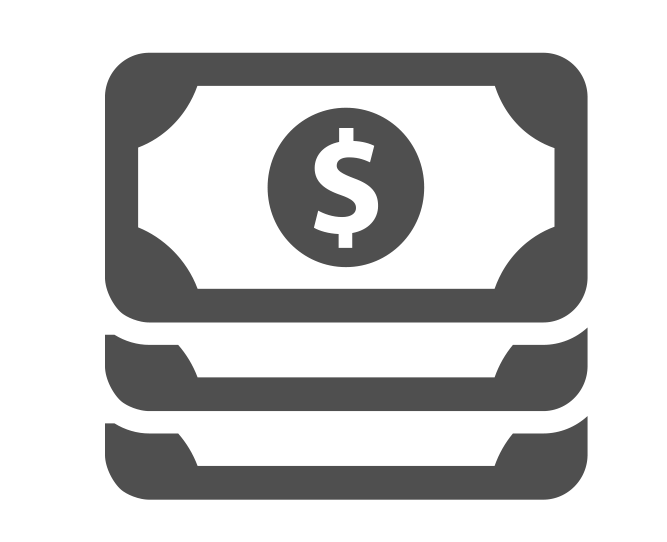
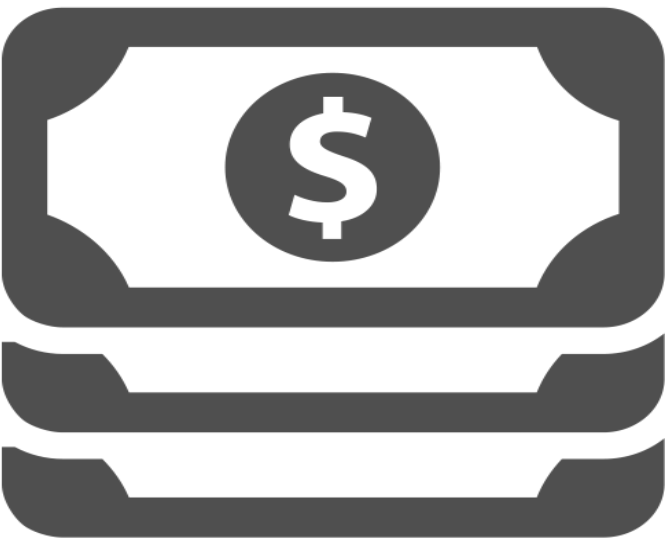
LUCAS- Detalhes na página de compra.php

diff --git a/smartphone/carrinho.php b/smartphone/carrinho.php
@@ -29,25 +29,37 @@ location.href="cardapio.php"
       </tr>
 
       <tr>
-        <td>1/2</td>
+    <td>
+     <input type="radio" name="tamanho" value="1">Inteira<br>
+     <input type="radio" name="tamanho" value="1/5">Meia
+     </td>
         <td><img src="smartphone/images/thumb-1.png" class="img-responsive" >Broto mussarela</td>
         <td>R$50.00</td>
         <td><a><img src="smartphone/images/x.png" width="15" height="15"></a></td>
       </tr>
       <tr>
-        <td>2</td>
+    <td>
+     <input type="radio" name="tamanho1" value="1">Inteira<br>
+     <input type="radio" name="tamanho1" value="1/5">Meia
+     </td>
         <td><img src="smartphone/images/thumb-1.png" class="img-responsive" >Broto mussarela</td>
         <td>R$50.00</td>
         <td><img src="smartphone/images/x.png" width="15" height="15"></td>
       </tr>
       <tr>
-        <td>1/2</td>
+    <td>
+     <input type="radio" name="tamanho2" value="1">Inteira<br>
+     <input type="radio" name="tamanho2" value="1/5">Meia
+     </td>
         <td><img src="smartphone/images/thumb-1.png" class="img-responsive" >Broto mussarela</td>
         <td>R$50.00</td>
         <td><img src="smartphone/images/x.png" width="15" height="15"></td>
       </tr>
       <tr>
-        <td>2</td>
+    <td>
+     <input type="radio" name="tamanho3" value="1">Inteira<br>
+     <input type="radio" name="tamanho3" value="1/5">Meia
+     </td>
         <td><img src="smartphone/images/thumb-1.png" class="img-responsive" >Broto mussarela</td>
         <td>R$50.00</td>
         <td><a><img src="smartphone/images/x.png" width="15" height="15"></a></td>

diff --git a/mobile/carrinho.php b/mobile/carrinho.php
@@ -31,28 +31,40 @@ location.href="cardapio.php"
       </tr>
 
       <tr>
-        <td>1/2</td>
+    <td>
+     <input type="radio" name="tamanho" value="1">Inteira<br>
+     <input type="radio" name="tamanho" value="1/5">Meia
+     </td>
         <td><img src="mobile/images/thumb-1.png" class="img-responsive"></td>
         <td>Broto mussarela</td>
         <td>R$50.00</td>
         <td><a><img src="mobile/images/x.png" width="15" height="15"></a></td>
       </tr>
       <tr>
-        <td>2</td>
+    <td>
+     <input type="radio" name="tamanho1" value="1">Inteira<br>
+     <input type="radio" name="tamanho1" value="1/5">Meia
+     </td>
         <td><img src="mobile/images/thumb-1.png" class="img-responsive"></td>
         <td>Pizza catupiry</td>
         <td>R$50.00</td>
         <td><img src="mobile/images/x.png" width="15" height="15"></td>
       </tr>
       <tr>
-        <td>1/2</td>
+    <td>
+     <input type="radio" name="tamanho2" value="1">Inteira<br>
+     <input type="radio" name="tamanho2" value="1/5">Meia
+     </td>
         <td><img src="mobile/images/thumb-1.png" class="img-responsive"></td>
         <td> Broto Mussarela</td>
         <td>R$50.00</td>
         <td><img src="mobile/images/x.png" width="15" height="15"></td>
       </tr>
       <tr>
-        <td>2</td>
+    <td>
+     <input type="radio" name="tamanho3" value="1">Inteira<br>
+     <input type="radio" name="tamanho3" value="1/5">Meia
+     </td>
         <td><img src="mobile/images/thumb-1.png" class="img-responsive"></td>
         <td>Pizza pepperoni</td>
         <td>R$50.00</td>

diff --git a/smartphone/compra.php b/smartphone/compra.php
@@ -1,7 +1,5 @@
 
 <?php require_once('header.php'); ?>
-<script src="http://localhost/templatesiteclientesabore/js/registro.js"></script>
-
 
 <script type="text/javascript">
 	
@@ -84,7 +82,7 @@
 
 <div class="grids" id="compra_expand" align="center">
 	<h4>Endereço</h4>
-	<form id="endereco" method="GET">
+	<form id="endereco" method="GET" >
 	
 		<div class="feedback2" align="center">
 		<h3> Complete para continuar a compra </h3><br>
@@ -158,9 +156,9 @@
 	<form id="pagamento" method="GET">
 			<table width="100%">
 				<tr>
-					<th id="dinheiro"><img src="smartphone/images/icondinheiro.png" height="100" width="140"><h3>Dinheiro</h3></th>
-					<th id="cartaocredito"><img src="smartphone/images/credito.png" height="100" width="140"><h3>Cartão de crédito</h3></th>
-					<th id="cartaodebito"><img src="smartphone/images/debito.png" height="100" width="140"><h3>Cartão de débito</h3></th>
+					<th id="dinheiro"><img src="smartphone/images/icondinheiro.png"  width="130" height="90"><h3 align="center">Dinheiro</h3></th>
+					<th id="cartaocredito"><img src="smartphone/images/credito.png"  width="130" height="90"><h3 align="center">Cartão de crédito</h3></th>
+					<th id="cartaodebito"><img src="smartphone/images/debito.png"  width="130" height="90"><h3 align="center">Cartão de débito</h3></th>
 				</tr>
 			</table>
 

diff --git a/web/carrinho.php b/web/carrinho.php
@@ -37,7 +37,10 @@ location.href="cardapio.php"
     <th ></th>
   </tr>
   <tr>
-  	<td>1/2</td>
+  	<td>
+     <input type="radio" name="tamanho" value="1">Inteira<br>
+     <input type="radio" name="tamanho" value="1/5">Meia
+     </td>
     <td><img src="web/images/thumb-2.png"></td>
     <td >Pizza Mussarela</td>
     <td></td>
@@ -47,7 +50,10 @@ location.href="cardapio.php"
     <td></td>
   </tr>
   <tr>
-  	<td>1</td>
+    <td>
+     <input type="radio" name="tamanho1" value="1">Inteira<br>
+     <input type="radio" name="tamanho1" value="1/5">Meia
+     </td>
     <td><img src="web/images/thumb-2.png"></td>
     <td>Broto Calabresa</td>
     <td></td>
@@ -57,7 +63,10 @@ location.href="cardapio.php"
     <td></td>
   </tr>
   <tr>
-  	<td>1</td>
+    <td>
+     <input type="radio" name="tamanho2" value="1">Inteira<br>
+     <input type="radio" name="tamanho2" value="1/5">Meia
+     </td>
     <td><img src="web/images/thumb-2.png"></td>
     <td>Pizza Mortadela</td>
     <td></td>
@@ -67,7 +76,10 @@ location.href="cardapio.php"
     <td></td>
   </tr>
   <tr>
-  	<td>1</td>
+    <td>
+     <input type="radio" name="tamanho3" value="1">Inteira<br>
+     <input type="radio" name="tamanho3" value="1/5">Meia
+     </td>
     <td><img src="web/images/thumb-2.png"></td>
     <td>Broto Pepinão</td>
     <td></td>

diff --git a/smartphone/index.php b/smartphone/index.php
@@ -51,10 +51,11 @@
 				<img src="<?PHP echo $pizza['Produto']['img']; ?>">
 				<p><?PHP echo $pizza['Produto']['descricao']; ?></p>
 				<span>R$ <?PHP echo $pizza['Produto']['valor']; ?></span>
+				<a href="carrinho.php"> Comprar </a>
 			</li>
 		<?PHP } ?>
 		
-		<a href="#">Ver todas</a>
+		<a href="cardapio.php">Ver todas</a>
 		<div class="clear"> </div>
 		<br>
 		<h4>Sugestões para você</h4>
@@ -67,9 +68,10 @@
 				<img src="<?PHP echo $pizza['Produto']['img']; ?>">
 				<p><?PHP echo $pizza['Produto']['descricao']; ?></p>
 				<span>R$ <?PHP echo $pizza['Produto']['valor']; ?></span>
+				<a href="carrinho.php"> Comprar </a>
 			</li>
 		<?PHP } ?>
-		<a href="#">Ver todas</a>
+		<a href="cardapio.php">Ver todas</a>
 		</ul>
 		<div class="clear"> </div>
 </div>

diff --git a/web/index.php b/web/index.php
@@ -14,6 +14,7 @@
 				<img src="<?PHP echo $pizza['Produto']['img']; ?>">
 				<p><?PHP echo $pizza['Produto']['descricao']; ?></p>
 				<button>R$ <?PHP echo $pizza['Produto']['valor']; ?></button>
+				<a href="carrinho.php"> Comprar </a>
 			</li>
 		<?PHP } ?>		
 		<a href="#">Ver todas</a>
@@ -29,6 +30,7 @@
 				<img src="<?PHP echo $pizza['Produto']['img']; ?>">
 				<p><?PHP echo $pizza['Produto']['descricao']; ?></p>
 				<button>R$ <?PHP echo $pizza['Produto']['valor']; ?></button>
+				<a href="carrinho.php"> Comprar </a>
 			</li>
 		<?PHP } ?>
 		<a href="#">Ver todas</a>

diff --git a/mobile/index.php b/mobile/index.php
@@ -49,6 +49,7 @@
 				<img src="<?PHP echo $pizza['Produto']['img']; ?>">
 				<p><?PHP echo $pizza['Produto']['descricao']; ?></p>
 				<span>R$ <?PHP echo $pizza['Produto']['valor']; ?></span>
+				<a href="carrinho.php"> Comprar </a>
 			</li>
 		<?PHP } ?>			
 		<a href="#">Ver todas</a>
@@ -64,6 +65,7 @@
 				<img src="<?PHP echo $pizza['Produto']['img']; ?>">
 				<p><?PHP echo $pizza['Produto']['descricao']; ?></p>
 				<span>R$ <?PHP echo $pizza['Produto']['valor']; ?></span>
+				<a href="carrinho.php"> Comprar </a>
 			</li>
 		<?PHP } ?>	
 		<a href="#">Ver todas</a>

diff --git a/smartphone/css/style.php b/smartphone/css/style.php
@@ -396,7 +396,7 @@ body{
     font-family: 'Istok Web', sans-serif;
 }
 #complement{
-    width:120px;
+    width:110px;
     padding:8px;
     font-size:14px;
     color:#333;
@@ -410,6 +410,7 @@ body{
     width:80px;
     padding:8px;
     font-size:14px;
+    margin-right: 49px;
     color:#333;
     background:#eee;
     box-shadow: 0 0 6px #aaa;
@@ -419,7 +420,7 @@ body{
 }
 
     #button3{
-    width:250px;
+    width:100%;
     padding:15px 8px;
     font-size:16px;
     margin-right: 40px;

diff --git a/smartphone/cardapio.php b/smartphone/cardapio.php
@@ -105,6 +105,7 @@
 			<img src="smartphone/images/thumb-1.png">
 			<p>Frango, molho, catupiry, queijo</p>
 			<span>R$30.00</span>
+			<a href="#">Comprar</a>
 		</li>
 		<li>
 			<h3>Frango com catupiry</h3>

diff --git a/app/detect.php b/app/detect.php
@@ -276,7 +276,7 @@ if($buscarDominio || ($page_name == '' || $page_name == 'index.php'))
 
 
 //testar funcionalidades em outras plataformas
-//$browser_t = 'smartphone';
+$browser_t = 'web';
 
 
 	?>

diff --git a/web/compra.php b/web/compra.php
@@ -1,7 +1,5 @@
 
 <?php require_once('header.php'); ?>
-<script src="http://localhost/templatesiteclientesabore/js/registro.js"></script>
-
 
 <script type="text/javascript">
 	

diff --git a/mobile/compra.php b/mobile/compra.php
@@ -1,6 +1,5 @@
 
 <?php require_once('header.php'); ?>
-<script src="http://localhost/templatesiteclientesabore/js/registro.js"></script>
 
 
 <script type="text/javascript">
